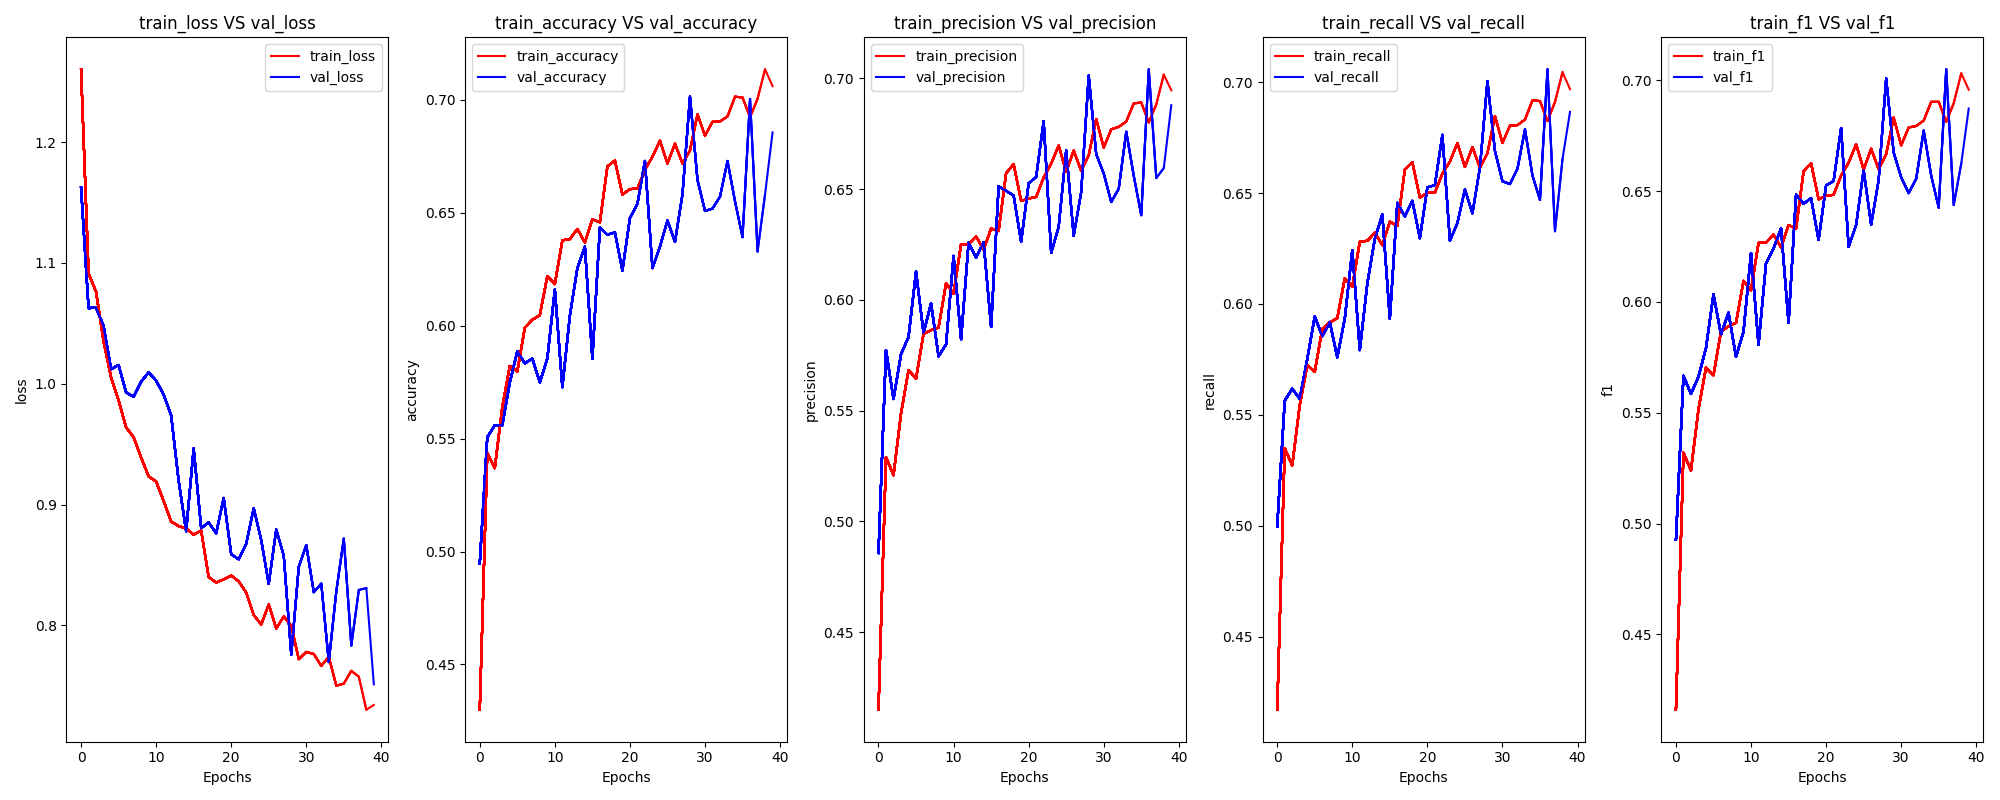
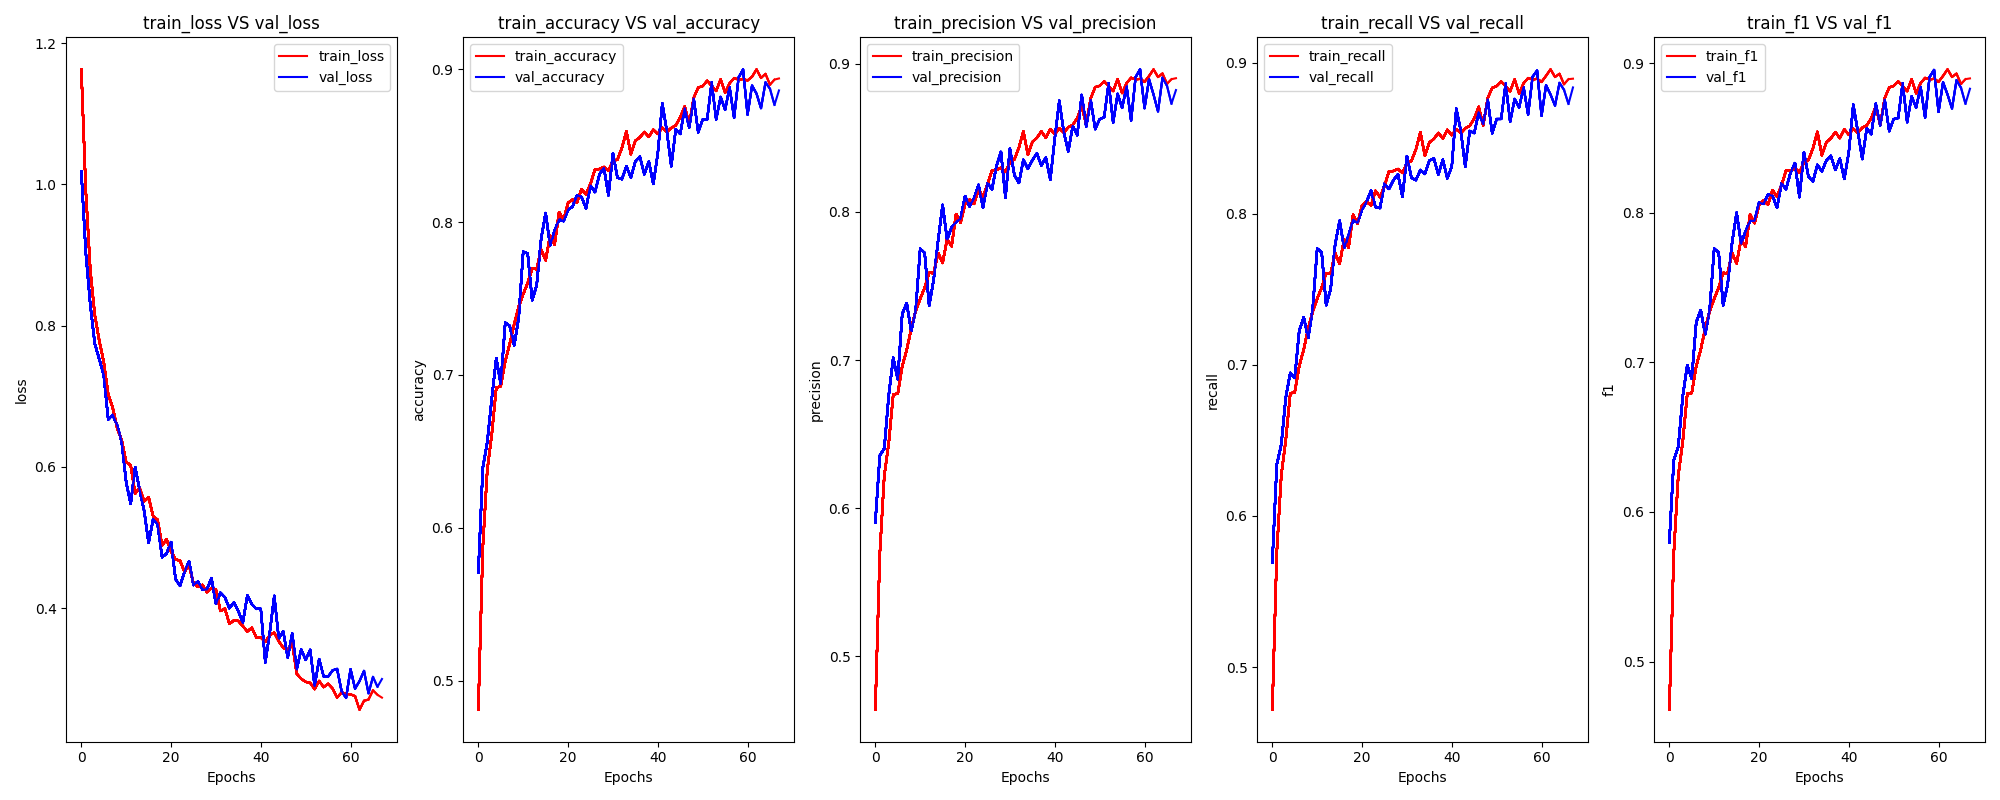
New model. 96.5% accuracy on pre-splitted test data.

diff --git a/src/model.py b/src/model.py
@@ -12,84 +12,75 @@ from secondary_module import colorize, project_root_path
 
 import matplotlib.pyplot as plt
 
-class MRINeuralNet(nn.Module):
-    '''
-    Convolutionnal neural network to predict tumor in MRIs scan images.
-    '''
-    def __init__(self,
+
+class MRI_CNN(nn.Module):
+    # CNN architecture for MRI tumors classification
+    def __init__(self,                  
                  input_shape:Tuple[int],
                  hidden_units:int,
                  output_shape:int,
                  activation_func:torch.nn
                  ):
-        
-        super().__init__()
-        
+
         self.input_shape = input_shape # [n_images, color_channels, height, width]
         self.hidden_units = hidden_units
         self.output_shape = output_shape # Number of classes
         self.activation_func = activation_func
         
-        self.conv_1 = nn.Sequential(
-            nn.Conv2d(
-                in_channels=self.input_shape[1], # Color channels
-                out_channels=self.hidden_units,
-                kernel_size=3, stride=1, padding=1),
-            self.activation_func(),
-            nn.Conv2d(
-                in_channels=self.hidden_units,
-                out_channels=self.hidden_units,
-                kernel_size=3, stride=1, padding=1),
-            self.activation_func(),
-            nn.MaxPool2d(kernel_size=2, stride=2)
-        )
+        super(MRI_CNN, self).__init__()
         
-        self.conv_2 = nn.Sequential(
-            nn.Conv2d(
-                in_channels=self.hidden_units,
-                out_channels=self.hidden_units,
-                kernel_size=3, stride=1, padding=1),
-            self.activation_func(),
-            nn.Conv2d(
-                in_channels=self.hidden_units,
-                out_channels=self.hidden_units,
-                kernel_size=3, stride=1, padding=1),
-            self.activation_func(),
-            nn.MaxPool2d(kernel_size=2, stride=2)
-        )
-        
-        
-        self.all_layers_except_last = [self.conv_1, self.conv_2]
-        # Calculate the number of input features for the linear layer dynamically
-        self.last_layer_output_shape = self._calculate_last_layer_output_shape()
-        
-        self.classifier = nn.Sequential(
-            nn.Flatten(),
-            nn.Linear(
-                in_features=self.hidden_units * self.last_layer_output_shape[-2] * self.last_layer_output_shape[-1],
-                out_features=self.output_shape)
+        # Convolutional layers
+        self.conv1 = nn.Conv2d(in_channels=self.input_shape[1], out_channels=self.hidden_units, kernel_size=3, padding=1)
+        self.conv2 = nn.Conv2d(in_channels=self.hidden_units, out_channels=self._hidden_units(2), kernel_size=3, padding=1)
+        self.conv3 = nn.Conv2d(in_channels=self.hidden_units, out_channels=self._hidden_units(2), kernel_size=3, padding=1)
+        # Max pooling layers
+        self.pool = nn.MaxPool2d(kernel_size=2, stride=2)
+        # Chain convolutional layers
+        self.conv_layers = nn.Sequential(
+            self.conv1, self.activation_func(), self.pool,
+            self.conv2, self.activation_func(), self.pool,
+            self.conv3, self.activation_func(), self.pool
         )
 
-    def _calculate_last_layer_output_shape(self):
+        # Calculate the number of input features for the linear layer dynamically
+        self.last_conv_output_shape = self._calculate_last_conv_layer_output_shape()
+        
+        # Flatten 
+        self.flatten = nn.Flatten()
+        
+        # Fully connected layers
+        self.fc1 = nn.Linear(self.hidden_units * self.last_conv_output_shape[-2] * self.last_conv_output_shape[-1], self._hidden_units(4))
+        self.fc2 = nn.Linear(self.hidden_units, self.output_shape)
+        # Dropout regularization
+        self.dropout = nn.Dropout(p=0.5)
+        # Chain dense layers
+        self.dense_layers = nn.Sequential(
+            self.fc1, self.activation_func(), self.dropout,
+            self.fc2
+        )
+
+
+    def _hidden_units(self, multiplier:int):
+        if isinstance(multiplier, int):
+            self.hidden_units = self.hidden_units * multiplier
+            return self.hidden_units
+        
+    def _calculate_last_conv_layer_output_shape(self):
         # Helper function to calculate the number of features after convolutional layers
         # Assuming input_shape is in the format (channels, height, width)
         dummy_input_output = torch.randn(*self.input_shape)
         with torch.inference_mode():
             # Pass dummy in all layers except for the last one
-            for layer in self.all_layers_except_last:
+            for layer in self.conv_layers:
                 dummy_input_output = layer(dummy_input_output)
         return dummy_input_output.shape
         
-        
     def forward(self, x):
-        # Operator fusion: reducing memory overhead and improving computational efficiency
-        return self.classifier(
-                 self.conv_2(
-                    self.conv_1(x)
-                 )
-               )
-        
-        
+        return self.dense_layers(self.flatten(self.conv_layers(x)))
+         
+
+
+
         
         
         
@@ -372,7 +363,7 @@ class TrainTestEval():
             self.lr_scheduler.step(metric)
         else:
             self.lr_scheduler.step()
-        #print('Lr value: ', self.optimizer.param_groups[0]['lr'])
+        print('Lr value: ', self.optimizer.param_groups[0]['lr'], '\n')
 
     def _organize_metrics_dict(self, gathered_metrics, train_metrics=None, val_metrics=None):
         for metric in self.all_metrics:

diff --git a/src/main.py b/src/main.py
@@ -13,7 +13,7 @@ from timeit import default_timer as timer
 
 from data_loading import LoadOurData
 from secondary_module import ConfigLoad, colorize, check_cuda_availability
-from model import MRINeuralNet, EarlyStopping, TrainTestEval, MetricsTracker
+from model import MRI_CNN, EarlyStopping, TrainTestEval, MetricsTracker
 
 
 
@@ -94,7 +94,7 @@ class Main():
                 ])
         # Generate dataloader for train - valid datasets for each fold of cv
         self.load.generate_cv_dataloaders(data_loader_params)
-    
+
         # Print random transformed images
         self.load.show_random_images(self.load.cross_valid_dataloaders['train'][0], display_seconds=show_random_image, unnormalize=True)
         
@@ -104,8 +104,8 @@ class Main():
         
         return imgs.shape, labels.shape
 
-    def get_MRINeuralNet_instance(self, input_shape, hidden_units, output_shape, activation_func):
-        return MRINeuralNet(input_shape, hidden_units, output_shape, activation_func)
+    def get_MRI_CNN_instance(self, input_shape, hidden_units, output_shape, activation_func):
+        return MRI_CNN(input_shape, hidden_units, output_shape, activation_func)
         
     def get_MetricsTracker_instance(self, metrics:List[str], n_classes:int, average:str='macro', torchmetrics:Dict={}):
         return MetricsTracker(metrics, n_classes, average=average, torchmetrics=torchmetrics)
@@ -218,7 +218,7 @@ if __name__ == "__main__":
 
         
     # Define model 
-    base_model = dl.get_MRINeuralNet_instance(input_shape=input_shape, 
+    base_model = dl.get_MRI_CNN_instance(input_shape=input_shape, 
                                               hidden_units=hidden_units,
                                               output_shape=len(dl.load.classes),
                                               activation_func=activation_func)
